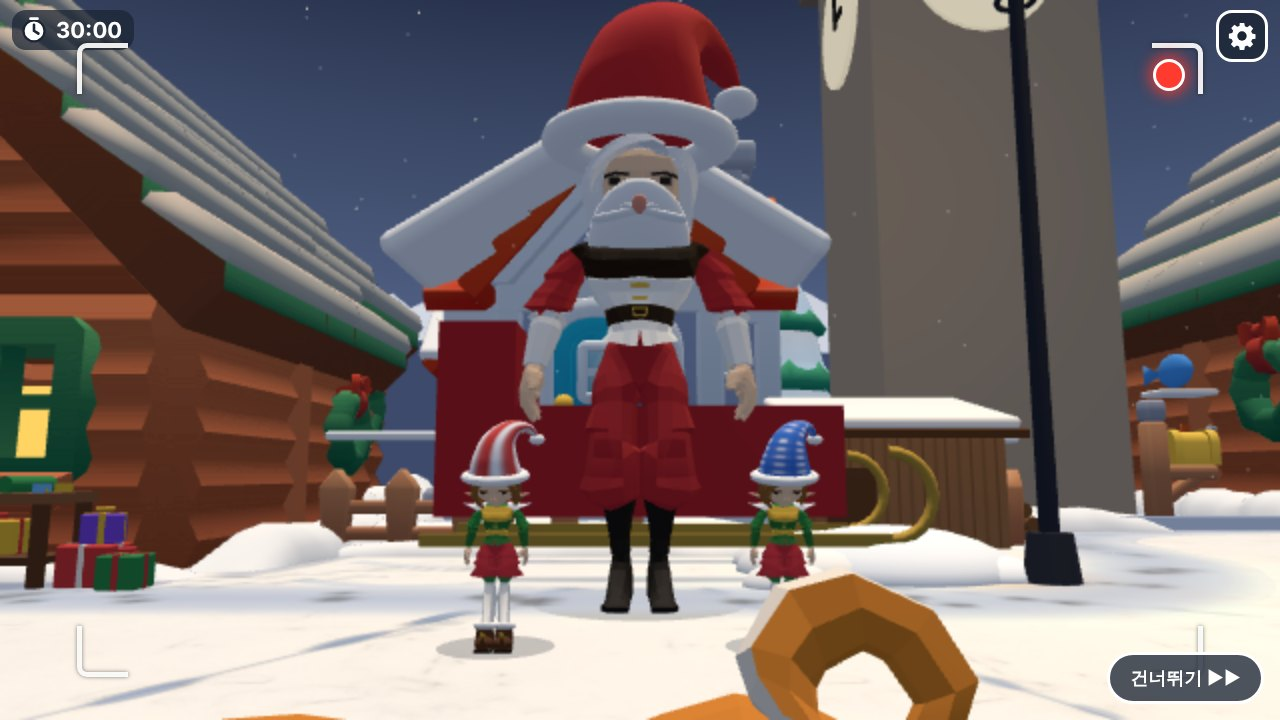
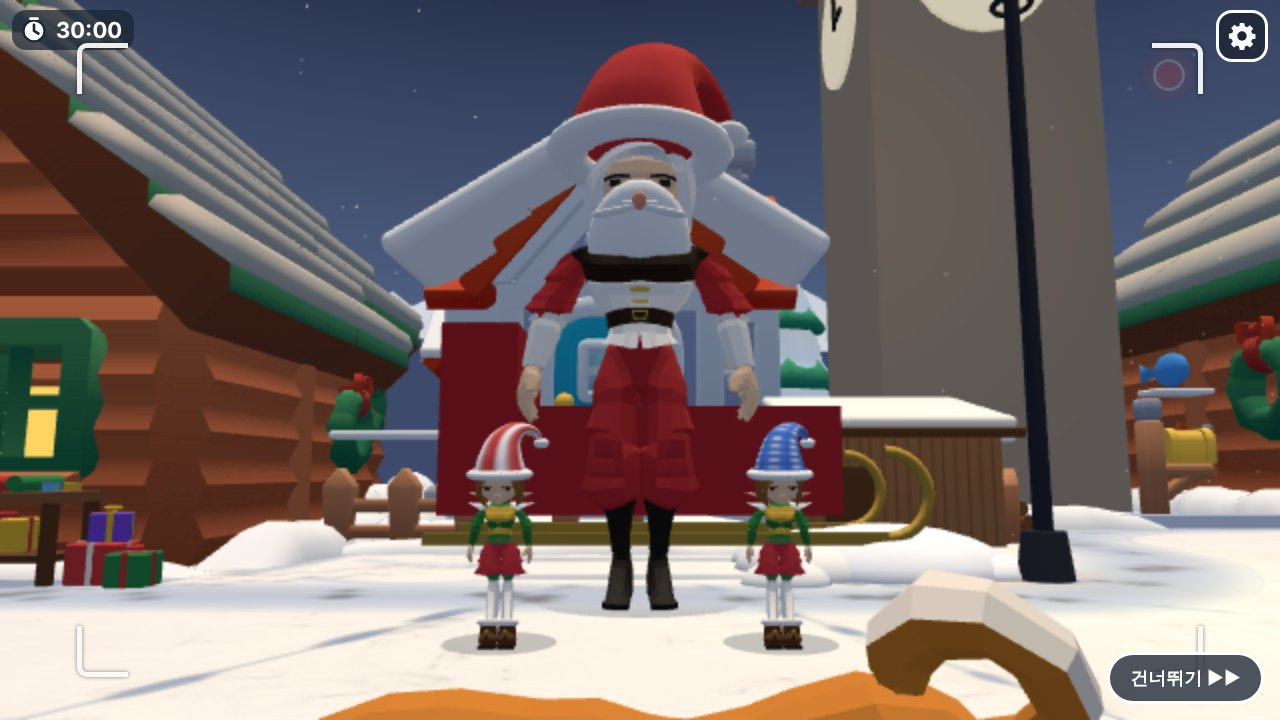
Prologue pacing: 37s with photo push-in, longer card, quiet empty plaza, impact snow cloud, low close-up of fallen elves who rise one by one, close shots of Santa and Doto, picture tags popping over scattered gifts; camera shot list with blends
Claude-Session: https://claude.ai/code/session_013wnimf1ouyZfR9DK6cFXAk

diff --git a/src/game/prologue.ts b/src/game/prologue.ts
@@ -33,6 +33,8 @@ export interface PrologueCast {
   snowPile: THREE.Object3D | null;
   /** 썰매에서 흩어져 떨어질 물건(선물 넷 + 재봉틀 상자)과 떨어질 자리 */
   cargo: { v: THREE.Object3D; to: Spot; heavy?: boolean }[];
+  /** 그림 이름표(cargo와 같은 순서, 떨어진 자리 위 높이 y). 연출 끝에 하나씩 나타난다 */
+  tags: { obj: THREE.Object3D; y: number }[];
   /** 썰매를 받치면 앞이 덜 처박힌다(받친 뒤 기울기) */
   sleighHeldTilt: number;
   reduceMotion: boolean;
@@ -209,7 +211,7 @@ export function createPrologue(cast: PrologueCast): Prologue {
   // 인물 자리
   const santaSeat = new THREE.Vector3(end.x - 1.5, 0.85, end.z);
   const santaHop = new THREE.Vector3(5.7, 0, -8.3); // 썰매 북동쪽(울타리 끝 옆)
-  const dotoPop = new THREE.Vector3(5.4, 0, -5.0); // 눈더미 남쪽
+  const dotoPop = new THREE.Vector3(6.6, 0, -4.9); // 눈더미 남동쪽(썰매 앞머리와 떨어져 사진기에 잘 보이게)
   const dotoFix = new THREE.Vector3(cast.dotoFix.x, 0, cast.dotoFix.z);
 
   let t = 0;
@@ -260,7 +262,9 @@ export function createPrologue(cast: PrologueCast): Prologue {
     // ── ① 단체사진(먼 훗날, 고친 썰매 앞) ──
     if (photoPhase) {
       const c = photo.camera;
-      setCam(c.x, c.y, c.z, c.tx, c.ty, c.tz);
+      // 사진기가 천천히 다가간다(마지막 자리 = 저장한 사진 구도)
+      const push = 1 - ease(seg(t, P.photo.push));
+      setCam(c.x, c.y + 0.25 * push, c.z + 1.8 * push, c.tx, c.ty + 0.2 * push, c.tz);
       camera.fov = c.fov;
       sleigh.position.set(end.x, 0, end.z);
       sleigh.rotation.set(0, sleighBase.rot.y, 0, 'YZX');
@@ -373,6 +377,21 @@ export function createPrologue(cast: PrologueCast): Prologue {
       burst(end.x, 0.4, end.z + 1.2, 40, 2.2, 3);
       if (!cast.reduceMotion) shake = 1;
     }
+    // 부딪히는 순간 눈 구름이 하얗게 일었다 가라앉는다
+    if (t >= C.impact) ui.flash(0.55 * (1 - ease(seg(t, [C.impact, C.impact + 0.9]))));
+    // 그림 이름표: 사진기가 선물들을 훑을 때 하나씩 톡
+    cast.tags.forEach((g, i) => {
+      const s0 = C.tags[0] + i * 0.4;
+      const k = seg(t, [s0, s0 + 0.35]);
+      g.obj.visible = k > 0;
+      if (!g.obj.visible) return;
+      const base = (g.obj.userData.baseScale as THREE.Vector3 | undefined) ?? g.obj.scale.clone();
+      g.obj.userData.baseScale = base;
+      const pop = k < 1 ? Math.sin(k * Math.PI * 0.5) * (1 + 0.35 * Math.sin(k * Math.PI)) : 1;
+      g.obj.scale.copy(base).multiplyScalar(Math.max(0.01, pop));
+      const to = cast.cargo[i]!.to;
+      g.obj.position.set(to.x, g.y, to.z);
+    });
     if (cast.snowPile && pileScale) {
       const k = seg(t, [C.impact, C.impact + 0.7]);
       const squash = t < C.impact ? 1 : 1 - 0.3 * Math.sin(k * Math.PI) * (1 - k * 0.5);
@@ -396,11 +415,12 @@ export function createPrologue(cast: PrologueCast): Prologue {
       }
     });
 
-    // 요정들: 짐칸에서 굴러 나와 시작 자리에 선다
+    // 요정들: 짐칸에서 튕겨 나가 눈밭에 쓰러진다 → (정적) → 하나씩 일어나 두리번거린다
     cast.elves.forEach((e, i) => {
-      const s0 = C.elves[0] + i * 0.28;
+      const s0 = C.elves[0] + i * 0.25;
       const k = seg(t, [s0, s0 + 0.85]);
       const spot = cast.elfStarts[i]!;
+      const rise = C.elfUp[0] + i * 0.7;
       e.look?.(0);
       if (t < s0) {
         e.root.visible = false;
@@ -408,13 +428,31 @@ export function createPrologue(cast: PrologueCast): Prologue {
       }
       e.root.visible = true;
       arc(tmpB.set(end.x - 0.8, 2.1, end.z + 0.4), tmpA.set(spot.x, 0, spot.z), 2.4, k, e.root.position);
-      e.root.rotation.set(k < 1 ? k * Math.PI * 2 : 0, spot.facing, 0);
-      if (k >= 1 && !landed[i]) {
+      // 공중제비는 떨어지기 직전에 끝나고, 닿기 직전부터 쓰러지는 동작
+      const spin = Math.min(1, k / 0.75);
+      // 쓰러져 있다 일어나 두리번거리는 동안은 사진기(남동쪽) 쪽을 보고, 사진기가 산타에게 간 뒤 시작 방향으로 돈다
+      const toCam = 0.35 + (i % 2 ? 0.4 : -0.35);
+      const back = ease(seg(t, [C.santaUp[0] + 0.6, C.santaUp[0] + 1.6]));
+      let yaw = toCam + (spot.facing - toCam) * back;
+      if (k >= 0.75 && !landed[i]) {
         landed[i] = true;
-        e.act?.('HitRecieve', { once: true });
-        burst(spot.x, 0.1, spot.z, 8, 0.8, 0.5);
+        e.act?.('Death', { once: true, speed: 1.6 });
       }
-      if (landed[i] && t > s0 + 0.85 + 0.75) e.act?.(null);
+      if (k >= 1 && e.root.userData.puffed !== true) {
+        e.root.userData.puffed = true;
+        burst(spot.x, 0.1, spot.z, 14, 1.0, 0.6);
+      }
+      if (t >= rise) {
+        if (e.root.userData.rose !== true) {
+          e.root.userData.rose = true;
+          e.act?.(null, { fade: 1.1 }); // 쓰러진 자세에서 천천히 일어선다
+        }
+        // 일어나서 두리번(왼쪽·오른쪽을 본다) → 시작 방향
+        const u = seg(t, [rise + 0.9, C.elfUp[1] + 0.4]);
+        yaw += Math.sin(u * Math.PI * 2) * 0.7 * (1 - u);
+        e.look?.(0.25 * Math.sin(Math.min(1, (t - rise) / 0.9) * Math.PI));
+      }
+      e.root.rotation.set(k < 1 ? spin * Math.PI * 2 : 0, yaw, 0);
       e.animate(t, false);
     });
 
@@ -427,7 +465,8 @@ export function createPrologue(cast: PrologueCast): Prologue {
       const toCam = Math.atan2(camPos.x - santaHop.x, camPos.z - santaHop.z);
       if (t < C.santaOut[0]) {
         const k = ease(seg(t, C.santaUp));
-        place(santa, santaSeat.x, -2.6 + (santaSeat.y + 2.6) * k, santaSeat.z, 0.4);
+        // 모자가 먼저 쑥, 어리둥절하게 고개를 저으며 일어선다
+        place(santa, santaSeat.x, -2.6 + (santaSeat.y + 2.6) * k, santaSeat.z, 0.4 + Math.sin(t * 5) * 0.25 * (1 - k));
         santaAct(null);
         santa.look?.(0.35 * (1 - k));
       } else if (t < C.santaWave[0]) {
@@ -478,32 +517,98 @@ export function createPrologue(cast: PrologueCast): Prologue {
       }
     }
 
-    // 사진기(눈보라 하늘 → 내려오는 썰매 → 광장)
-    if (t < C.sleigh[0]) {
-      // 광장 남동쪽에서 북서쪽 하늘을 올려다본다. 별빛을 반쯤 따라간다
-      const sky0 = tmpB.set(-34, 18, -12);
-      const look = ks > 0 ? sky0.lerp(streakAt(ks, tmpV), 0.55) : sky0;
-      setCam(10, 1.8, 10, look.x, look.y, look.z);
-      camera.fov = 54;
-    } else if (t < C.impact) {
-      // 내려오는 썰매를 가운데에 두고 따라간다(조금 앞서 본다)
-      const k = ease(seg(t, C.sleigh));
-      tmpA.set(10, 1.8, 10).lerp(tmpB.set(10.5, 5.2, 7.5), k);
-      const ahead = path.getPointAt(Math.min(1, 1 - Math.pow(1 - seg(t, C.sleigh), 1.5) + 0.08), tmpV);
-      const from = tmpB.set(-34, 18, -12).lerp(streakAt(1, new THREE.Vector3()), 0.55);
-      const look = from.lerp(ahead, ease(Math.min(1, seg(t, C.sleigh) * 3)));
-      setCam(tmpA.x, tmpA.y, tmpA.z, look.x, look.y, look.z);
-      camera.fov = 54 - 10 * k;
-    } else {
-      const k = ease(seg(t, [C.impact, C.impact + 1.6]));
-      const k2 = ease(seg(t, [C.santaHold[0], P.end]));
-      tmpA.set(10.5, 5.2, 7.5).lerp(tmpB.set(11.5, 8.2, 9.5), k);
-      tmpA.lerp(tmpB.set(12.5, 10.5, 12.5), k2);
-      const look = tmpB.copy(end).lerp(new THREE.Vector3(3.6, 1.2, -4.6), k);
-      look.lerp(new THREE.Vector3(2.5, 0.6, -2.2), k2);
-      setCam(tmpA.x, tmpA.y, tmpA.z, look.x, look.y, look.z);
-      camera.fov = 44;
+    // 사진기: 장면마다 한 컷, 컷 사이는 부드럽게 옮긴다
+    const shot = shotAt(t, ks);
+    setCam(shot.p.x, shot.p.y, shot.p.z, shot.q.x, shot.q.y, shot.q.z);
+    camera.fov = shot.fov;
+  }
+
+  type Shot = { p: THREE.Vector3; q: THREE.Vector3; fov: number };
+  const V = (x: number, y: number, z: number) => new THREE.Vector3(x, y, z);
+  const elfMid = () => {
+    const m = V(0, 0, 0);
+    cast.elfStarts.forEach((s) => m.add(V(s.x, 0, s.z)));
+    return m.multiplyScalar(1 / Math.max(1, cast.elfStarts.length));
+  };
+  const SKY0 = V(-34, 18, -12);
+  /** 컷 목록: 시작 시각, 앞 컷에서 옮겨 오는 시간, 그 시각의 사진기 */
+  const SHOTS: { at: number; blend: number; get: (t: number, ks: number) => Shot }[] = [
+    // 폭풍 전 고요: 아무도 없는 광장(썰매 자리)을 보다가 하늘로 고개를 든다
+    {
+      at: P.card.hide[0],
+      blend: 0,
+      get: (t) => {
+        const k = ease(seg(t, C.quiet));
+        return { p: V(15, 3.4, 13).lerp(V(10, 1.8, 10), k), q: V(1, 1.2, -4).lerp(SKY0, k), fov: 54 };
+      },
+    },
+    // 별빛을 반쯤 따라간다
+    { at: C.streak[0], blend: 0, get: (_t, ks) => ({ p: V(10, 1.8, 10), q: SKY0.clone().lerp(streakAt(ks, V(0, 0, 0)), 0.55 * Math.min(1, ks * 3)), fov: 54 }) },
+    // 내려오는 썰매를 가운데에 두고 따라간다(조금 앞서 본다)
+    {
+      at: C.sleigh[0],
+      blend: 0,
+      get: (t) => {
+        const k = ease(seg(t, C.sleigh));
+        const ahead = path.getPointAt(Math.min(1, 1 - Math.pow(1 - seg(t, C.sleigh), 1.5) + 0.08), V(0, 0, 0));
+        const from = SKY0.clone().lerp(streakAt(1, V(0, 0, 0)), 0.55);
+        return { p: V(10, 1.8, 10).lerp(V(10.5, 5.2, 7.5), k), q: from.lerp(ahead, ease(Math.min(1, seg(t, C.sleigh) * 3))), fov: 54 - 10 * k };
+      },
+    },
+    // 부딪힘: 썰매와 흩어지는 짐
+    { at: C.impact, blend: 0, get: () => ({ p: V(10.5, 5.2, 7.5), q: end.clone(), fov: 44 }) },
+    // 눈 구름이 가라앉는 동안 쓰러진 요정들에게 낮게, 천천히 다가간다
+    {
+      at: C.settle[0] - 0.3,
+      blend: 1.4,
+      get: (t) => {
+        const m = elfMid();
+        const k = ease(seg(t, [C.settle[0], C.elfUp[1]]));
+        const up = ease(seg(t, C.elfUp));
+        // 누워 있을 때는 바짝, 일어나면 한 걸음 물러나 둘 다 머리끝까지 들어오게
+        const p = m.clone().add(V(1.6, 0.55, 3.4).lerp(V(1.0, 0.5, 2.3), k)).add(V(0.4, 0.4, 1.6).multiplyScalar(up));
+        return { p, q: m.clone().add(V(0, 0.25 + 0.55 * up, 0)), fov: 40 };
+      },
+    },
+    // 산타: 썰매 안에서 모자가 쑥 → 일어나 내려서 손을 흔든다
+    {
+      at: C.santaUp[0],
+      blend: 0.9,
+      get: () => ({ p: V(10.5, 3.2, -0.6), q: cast.santa.root.position.clone().add(V(0, 2.6, 0)), fov: 44 }),
+    },
+    // 도토: 눈더미에서 튀어나와 눈을 털고 썰매 날로
+    {
+      at: C.dotoUp[0] + 0.2,
+      blend: 0.8,
+      get: () => {
+        const d = cast.doto.root.position;
+        // 남쪽 조금 높은 데서(썰매가 앞을 가리지 않게)
+        return { p: V(d.x - 1.3, 3.0, d.z + 5.0), q: V(d.x - 0.2, 0.8, d.z), fov: 40 };
+      },
+    },
+    // 산타가 썰매를 받치는 동안 물러나며 흩어진 선물(이름표)을 훑고 광장 전체로
+    {
+      at: C.santaHold[0],
+      blend: 1.2,
+      get: (t) => {
+        const k = ease(seg(t, [C.santaHold[0], P.fadeOut[1]]));
+        return { p: V(10.5, 5.5, 6.5).lerp(V(12.5, 11, 12.5), k), q: V(4, 1.2, -4.5).lerp(V(2.5, 0.6, -2.2), k), fov: 44 };
+      },
+    },
+  ];
+  function shotAt(t: number, ks: number): Shot {
+    let i = 0;
+    while (i + 1 < SHOTS.length && t >= SHOTS[i + 1]!.at) i++;
+    const cur = SHOTS[i]!.get(t, ks);
+    const sh = SHOTS[i]!;
+    if (i > 0 && sh.blend > 0 && t < sh.at + sh.blend) {
+      const prev = SHOTS[i - 1]!.get(t, ks);
+      const k = ease((t - sh.at) / sh.blend);
+      cur.p.lerpVectors(prev.p, cur.p, k);
+      cur.q.lerpVectors(prev.q, cur.q, k);
+      cur.fov = prev.fov + (cur.fov - prev.fov) * k;
     }
+    return cur;
   }
 
   function updatePuffs(dt: number): void {
@@ -548,6 +653,12 @@ export function createPrologue(cast: PrologueCast): Prologue {
     cast.doto.root.scale.setScalar(cast.elfScale);
     place(cast.doto, cast.dotoFix.x, 0, cast.dotoFix.z, cast.dotoFix.facing);
     dotoAct('Interact');
+    cast.tags.forEach((g, i) => {
+      g.obj.visible = true;
+      const base = g.obj.userData.baseScale as THREE.Vector3 | undefined;
+      if (base) g.obj.scale.copy(base);
+      g.obj.position.set(cast.cargo[i]!.to.x, g.y, cast.cargo[i]!.to.z);
+    });
     cast.kongi.root.visible = false;
     streak.visible = false;
     for (let i = 0; i < N; i++) puffLife[i] = 0;

diff --git a/src/core/prologue.ts b/src/core/prologue.ts
@@ -1,8 +1,9 @@
 // 프롤로그(명세서 §4 0장 첫 문단) 시간표와 단체사진 구도. three.js와 무관한 순수 값·계산(단위 시험 대상).
 //   ① 단체사진(나중 5장 장면을 먼저 보여 준다): 예약 셔터가 깜박이는 동안 화면 아래로 콩이 꼬리가 휙 → 모두 발밑을 본다 → 찰칵
 //   ② 사진을 뒤집으면 '한 시간 전, 마을 광장'
-//   ③ 눈보라 속 별빛 → 삐걱거리는 썰매가 광장 눈더미에 처박힘 → 선물·요정이 흩어짐 → 산타 무사(손 흔들기)
-//      → 도토가 눈을 털고 썰매 날을 살핌 → 산타가 썰매 한쪽을 받침 → 0장 플레이
+//   ③ 아무도 없는 눈보라 광장 → 별빛 → 삐걱거리는 썰매가 광장 눈더미에 처박힘 → 선물·요정이 흩어짐
+//      → 눈 구름이 가라앉는 동안 쓰러진 요정들에게 낮게 다가감 → 하나씩 일어나 두리번 → 산타 무사(손 흔들기)
+//      → 도토가 눈을 털고 썰매 날을 살핌 → 산타가 썰매 한쪽을 받침 → 흩어진 선물의 그림 이름표 → 0장 플레이
 // 대사·자막 없음. 글자는 사진 뒷면 한 줄뿐(소품).
 
 /** 구간 [시작, 끝](초) */
@@ -10,49 +11,59 @@ export type Span = readonly [number, number];
 
 export const PROLOGUE = {
   photo: {
+    /** 사진기가 천천히 다가간다 */
+    push: [0, 5.6] as Span,
     /** 예약 셔터 깜박임(점점 빨라진다) */
-    blinks: [1.0, 1.8, 2.45, 2.95, 3.35, 3.65] as const,
+    blinks: [1.6, 2.6, 3.4, 4.0, 4.45, 4.8, 5.05] as const,
     /** 콩이가 화면 아래를 가로지른다 */
-    tail: [3.0, 3.75] as Span,
+    tail: [4.3, 5.05] as Span,
     /** 모두 발밑을 내려다본다 */
-    lookDown: [3.15, 3.5] as Span,
-    shutter: 3.95,
+    lookDown: [4.45, 4.85] as Span,
+    shutter: 5.35,
   },
   card: {
-    show: [4.15, 4.75] as Span,
-    flip: [5.9, 6.7] as Span,
+    show: [5.6, 6.3] as Span,
+    flip: [8.4, 9.3] as Span,
     /** 뒷면을 보여 준 뒤 사라진다 */
-    hide: [8.1, 8.7] as Span,
+    hide: [11.3, 12.0] as Span,
   },
   crash: {
     /** 눈보라 밤하늘 */
-    storm: [8.4, 19.2] as Span,
+    storm: [11.6, 37.1] as Span,
+    /** 아무도 없는 눈보라 광장을 천천히 훑는다(폭풍 전 고요) */
+    quiet: [12.0, 15.0] as Span,
     /** 하늘을 가르는 별빛 */
-    streak: [8.9, 10.9] as Span,
+    streak: [14.8, 17.8] as Span,
     /** 썰매가 내려와 미끄러진다 */
-    sleigh: [10.6, 12.6] as Span,
-    impact: 12.6,
+    sleigh: [17.6, 20.2] as Span,
+    impact: 20.2,
     /** 선물이 흩어져 떨어진다 */
-    gifts: [12.7, 14.0] as Span,
-    /** 요정들이 굴러 나와 일어선다 */
-    elves: [12.9, 14.1] as Span,
-    /** 산타가 썰매에서 일어나 내려선다 */
-    santaUp: [13.6, 14.4] as Span,
-    santaOut: [14.4, 15.3] as Span,
+    gifts: [20.3, 21.6] as Span,
+    /** 요정들이 튕겨 나가 눈밭에 쓰러진다 */
+    elves: [20.35, 21.4] as Span,
+    /** 눈 구름이 가라앉는 동안 쓰러진 요정들에게 낮게 다가간다(정적) */
+    settle: [21.6, 24.6] as Span,
+    /** 요정들이 하나씩 일어나 두리번거린다 */
+    elfUp: [24.6, 26.8] as Span,
+    /** 산타가 썰매 안에서 어리둥절하게 일어나 내려선다 */
+    santaUp: [26.8, 28.2] as Span,
+    santaOut: [28.2, 29.1] as Span,
     /** 산타가 손을 흔든다(무사하다) */
-    santaWave: [15.3, 16.9] as Span,
+    santaWave: [29.1, 30.7] as Span,
     /** 도토가 눈더미에서 나와 눈을 털고 썰매 날로 간다 */
-    dotoUp: [14.2, 15.0] as Span,
-    dotoShake: [15.0, 15.9] as Span,
-    dotoWalk: [15.9, 17.2] as Span,
+    dotoUp: [30.4, 31.3] as Span,
+    dotoShake: [31.3, 32.4] as Span,
+    dotoWalk: [32.4, 33.8] as Span,
     /** 산타가 썰매 앞쪽을 받친다 */
-    santaHold: [16.9, 18.0] as Span,
+    santaHold: [33.4, 34.6] as Span,
+    /** 흩어진 선물을 훑으며 그림 이름표가 하나씩 나타난다 */
+    tags: [34.0, 36.4] as Span,
     /** 눈보라가 잦아든다 */
-    calm: [16.0, 19.0] as Span,
+    calm: [30.0, 35.0] as Span,
   },
   /** 0장 플레이 화면으로 넘어가는 어둡게 하기 */
-  fadeOut: [19.2, 19.6] as Span,
-  end: 19.6,
+  fadeOut: [36.6, 37.1] as Span,
+  end: 37.1,
 } as const;
 
 /** t가 구간 안에서 어디쯤인가(0~1로 자른다) */

diff --git a/tests/unit/prologue.test.ts b/tests/unit/prologue.test.ts
@@ -45,6 +45,15 @@ describe('프롤로그 시간표', () => {
     expect(C.gifts[0]).toBeGreaterThan(C.impact);
     expect(PROLOGUE.end).toBeGreaterThan(C.santaHold[1]);
   });
+  it('호흡: 불시착 뒤 쓰러진 요정들을 보여 주는 정적(2초 이상)이 있고, 그 뒤에 일어난다. 전체 30초 이상', () => {
+    const C = PROLOGUE.crash;
+    expect(C.settle[0]).toBeGreaterThanOrEqual(C.elves[1]);
+    expect(C.settle[1] - C.settle[0]).toBeGreaterThanOrEqual(2);
+    expect(C.elfUp[0]).toBeGreaterThanOrEqual(C.settle[1]);
+    expect(C.santaUp[0]).toBeGreaterThanOrEqual(C.elfUp[1]);
+    expect(C.tags[1]).toBeLessThanOrEqual(PROLOGUE.fadeOut[0]);
+    expect(PROLOGUE.end).toBeGreaterThanOrEqual(30);
+  });
   it('seg는 구간 밖에서 0·1로 자른다', () => {
     expect(seg(0, [1, 2])).toBe(0);
     expect(seg(1.5, [1, 2])).toBeCloseTo(0.5);

diff --git a/src/game/chapter0.ts b/src/game/chapter0.ts
@@ -258,6 +258,7 @@ export function startChapter0(models: Models): void {
         { v: crate, to: { x: CH0.crateStart.x, z: CH0.crateStart.z, facing: CH0.crateStart.yaw - Math.PI / 2 }, heavy: true },
         ...SORT_GIFTS.map((g) => ({ v: gifts.get(g.id)!.v, to: { x: g.x, z: g.z, facing: 0 } })),
       ],
+      tags: [{ obj: crateTag, y: 1.05 }, ...SORT_GIFTS.map((g) => ({ obj: gifts.get(g.id)!.tag, y: 0.95 }))],
       sleighHeldTilt,
       reduceMotion,
       storm: (k) => {

diff --git a/README.md b/README.md
@@ -34,7 +34,7 @@
 | 주소 | 장면 |
 |---|---|
 | `/` | 0장 광장 시험 장면(요정 1명) |
-| `/?chapter=0` | 새 시도면 **프롤로그**(단체사진 → 사진 뒷면 → 썰매 불시착, 약 20초, 「건너뛰기」·Esc) 뒤 0장 선물 분류, 한 기기에서 둘이(1P WASD + E·터치, 2P 방향키 + Enter). 이어 하기·재시도는 프롤로그 없이 바로. `&noshadow`: 실제 그림자 끄기, `&quality=low`: 그림자·눈결 끄기(저사양) |
+| `/?chapter=0` | 새 시도면 **프롤로그**(단체사진 → 사진 뒷면 → 썰매 불시착, 약 37초, 「건너뛰기」·Esc) 뒤 0장 선물 분류, 한 기기에서 둘이(1P WASD + E·터치, 2P 방향키 + Enter). 이어 하기·재시도는 프롤로그 없이 바로. `&noshadow`: 실제 그림자 끄기, `&quality=low`: 그림자·눈결 끄기(저사양) |
 | `/?chapter=2` | 2장 수선집 고르기: 방 만들기 / 코드로 참가 / 한 기기에서 둘이 |
 | `/?chapter=2&host` | 방 만들기(이 기기가 방장). 방 코드·초대 링크가 뜨고, 둘 이상 모이면 「시작」 |
 | `/?chapter=2&join=코드` | 초대 링크로 참가(자동 요정 별명) |
